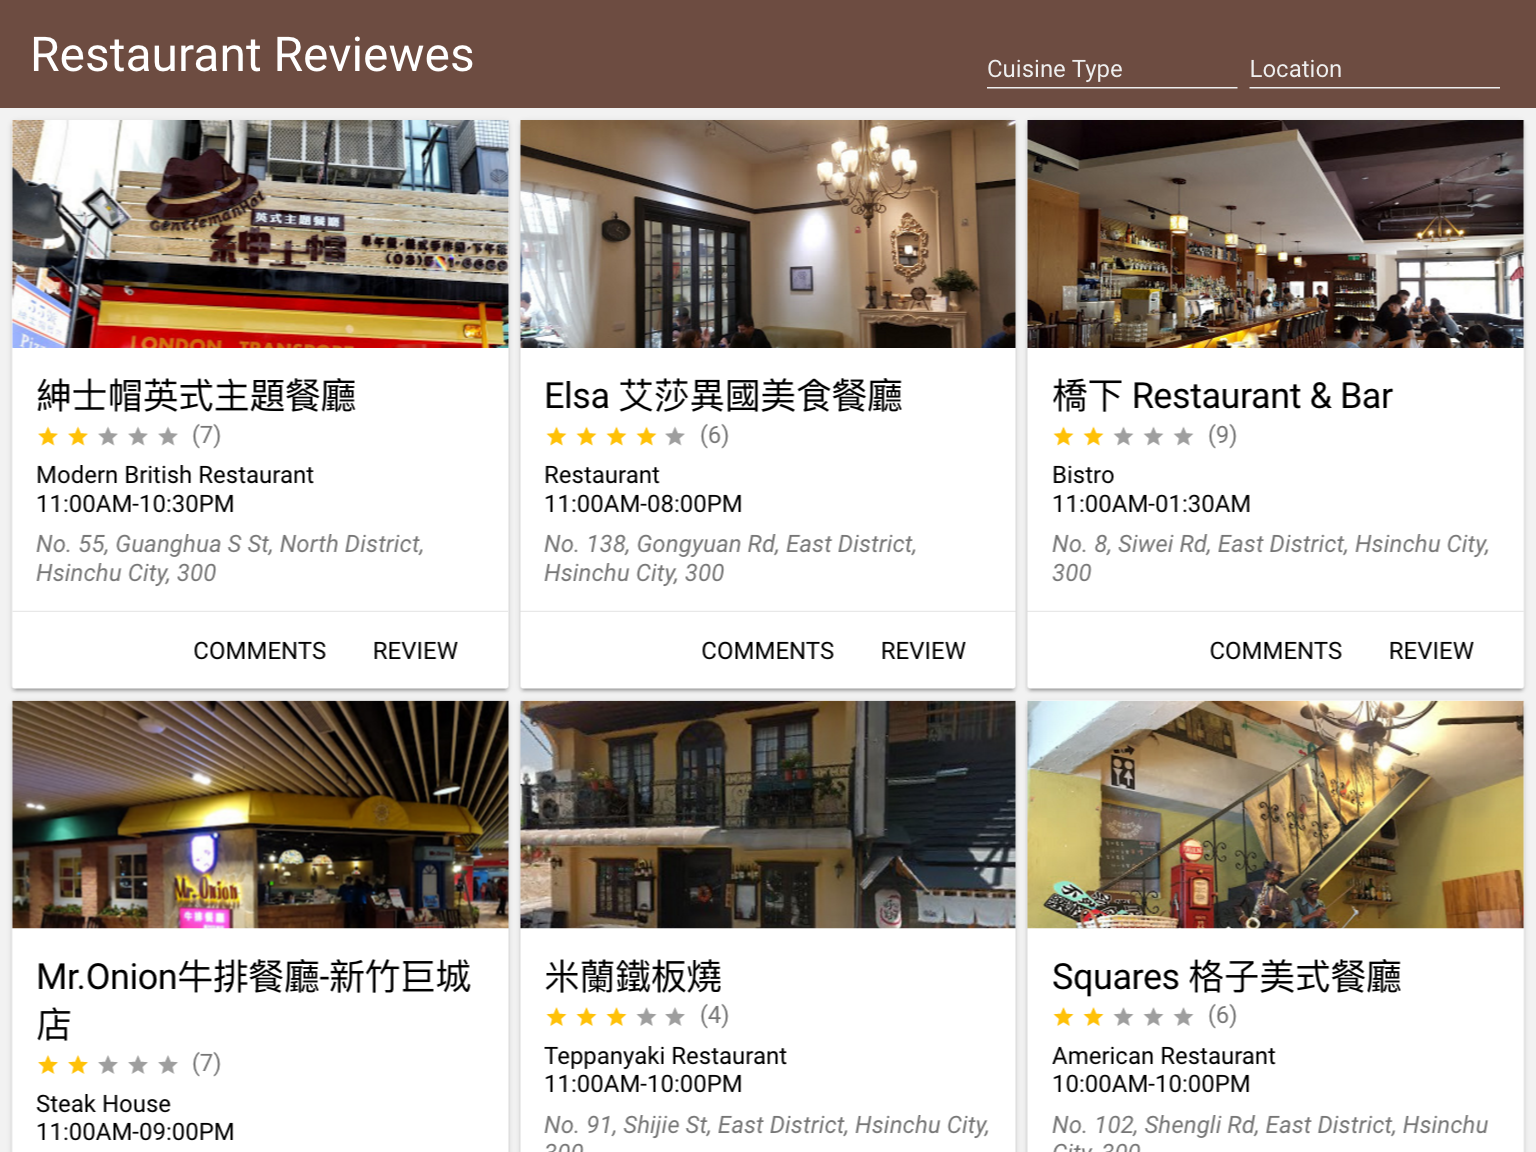
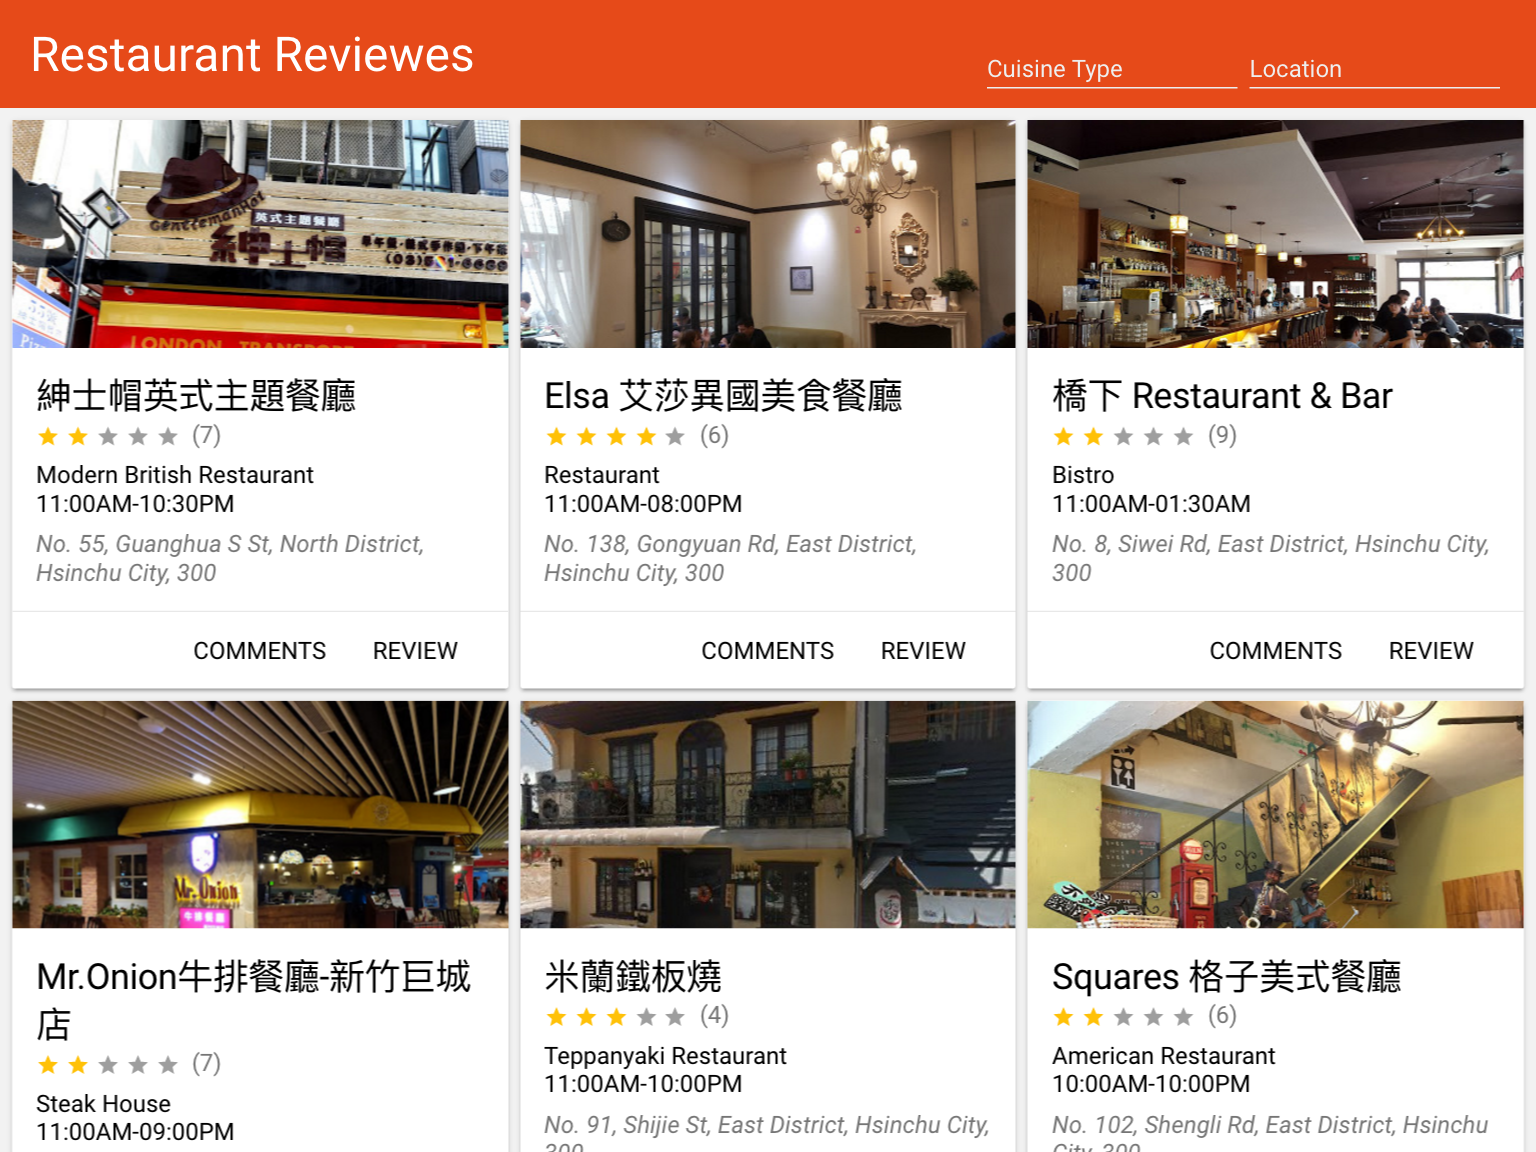
no message

Changed region(s): [[0.0, 0.0, 1.0, 0.0938]]

diff --git a/restaurant-reviewes.html b/restaurant-reviewes.html
@@ -26,10 +26,10 @@
         -moz-box-sizing: border-box;
         height: 100%;
         background: #f2f2f2;
-        --primary-color: var(--paper-brown-600);
-        --default-primary-color: var(--paper-brown-600);
-        --light-primary-color: var(--paper-brown-100);
-        --dark-primary-color: var(--paper-brown-900);
+        --primary-color: var(--paper-deep-orange-700);
+        --default-primary-color: var(--paper-deep-orange-700);
+        --light-primary-color: var(--paper-deep-orange-300);
+        --dark-primary-color: var(--paper-deep-orange-900);
     }
     
     :host header {
